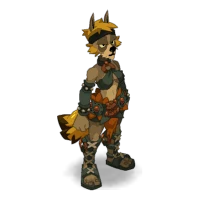
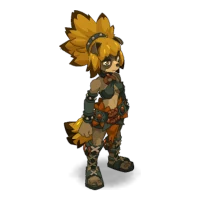
Ouginak : les 8 vraies têtes pour chaque sexe
Les têtes de l'Ouginak sont les apparences 3502 à 3509 (masculin) et 3510 à 3517 (féminin), vérifiées sur le serveur d'images d'Ankama et comparées au rendu officiel par défaut. L'ancienne liste était décalée de deux (d'où les têtes féminines chez l'homme et les têtes cassées chez la femme). Images locales régénérées, cache des images media-v7.

Claude-Session: https://claude.ai/code/session_01TgfgsFbfimzPE6UbE45j36

Changed region(s): [[0.27, 0.03, 0.69, 0.96]]

diff --git a/js/looks.js b/js/looks.js
@@ -1,7 +1,7 @@
 /* idlus — apparences des héros (3.1)
    Rendus officiels des apparences DOFUS (corps de classe, têtes, couleurs) + correspondances objet → apparence établies par idlus. */
 (function (root) {
-  const CLASS_LOOKS = {"feca":{"m":{"body":10,"heads":[2012,2013,2014,2015,2016,2017,2018,2019],"colors":[15047528,7814953,14185518,4809554,5319189]},"f":{"body":11,"heads":[2020,2021,2022,2023,2024,2025,2026,2027],"colors":[15047528,7814953,14185518,4809554,5319189]}},"osa":{"m":{"body":20,"heads":[2028,2029,2030,2031,2032,2033,2034,2035],"colors":[14325094,14732959,3572096,4800822,16755757]},"f":{"body":21,"heads":[2036,2037,2038,2039,2040,2041,2042,2043],"colors":[14325094,14732959,3572096,4800822,16755757]}},"enu":{"m":{"body":30,"heads":[2044,2045,2046,2047,2048,2049,2050,2051],"colors":[13732958,15851694,3093806,14325820,7814953]},"f":{"body":31,"heads":[2052,2053,2054,2055,2056,2057,2058,2059],"colors":[16297081,15588265,3159600,14517248,7814953]}},"sram":{"m":{"body":40,"heads":[2060,2061,2062,2063,2064,2065,2066,2067],"colors":[14206857,15392448,3435918,6177568,10715217]},"f":{"body":41,"heads":[2068,2069,2070,2071,2072,2073,2074,2075],"colors":[14325094,15392448,3435918,6177568,3435918]}},"xelor":{"m":{"body":50,"heads":[2076,2077,2078,2079,2080,2081,2082,2083],"colors":[8550749,15782577,1923718,6700064,15042816]},"f":{"body":51,"heads":[2084,2085,2086,2087,2088,2089,2090,2091],"colors":[8550749,14533780,1923718,6700064,15042816]}},"eca":{"m":{"body":60,"heads":[2092,2093,2094,2095,2096,2097,2098,2099],"colors":[14732959,15173176,15690532,5478807,7687730]},"f":{"body":61,"heads":[2100,2101,2102,2103,2104,2105,2106,2107],"colors":[14732959,15173176,15690532,5478807,7687730]}},"eni":{"m":{"body":70,"heads":[2108,2109,2110,2111,2112,2113,2114,2115],"colors":[14325094,7814953,13997612,4739655,6833937]},"f":{"body":71,"heads":[2116,2117,2118,2119,2120,2121,2122,2123],"colors":[15047528,14996664,14368563,14471352,9799968]}},"iop":{"m":{"body":80,"heads":[2124,2125,2126,2127,2128,2129,2130,2131],"colors":[15704172,15301153,14736065,12200764,484225]},"f":{"body":81,"heads":[2132,2133,2134,2135,2136,2137,2138,2139],"colors":[15047528,15301153,14736065,12200764,12200764]}},"cra":{"m":{"body":90,"heads":[2140,2141,2142,2143,2144,2145,2146,2147],"colors":[15047528,14383411,7696171,8675096,9392643]},"f":{"body":91,"heads":[2148,2149,2150,2151,2152,2153,2154,2155],"colors":[15047528,14383411,7696171,9392643,9392643]}},"sadi":{"m":{"body":100,"heads":[2156,2157,2158,2159,2160,2161,2162,2163],"colors":[9329441,7966996,15914657,7820329,15914657]},"f":{"body":101,"heads":[2164,2165,2166,2167,2168,2169,2170,2171],"colors":[12282670,7966996,14994072,10711608,15258276]}},"sacri":{"m":{"body":110,"heads":[2172,2173,2174,2175,2176,2177,2178,2179],"colors":[15047528,15896377,8287530,8727092,16422159]},"f":{"body":111,"heads":[2180,2181,2182,2183,2184,2185,2186,2187],"colors":[15047528,15896377,8287530,8727092,16422159]}},"panda":{"m":{"body":120,"heads":[2188,2189,2190,2191,2192,2193,2194,2195],"colors":[13418918,5329968,9904435,3423523,14533780]},"f":{"body":121,"heads":[2196,2197,2198,2199,2200,2201,2202,2203],"colors":[13418918,5329968,9904435,9904435,14533780]}},"roub":{"m":{"body":1405,"heads":[2204,2205,2206,2207,2208,2209,2210,2211],"colors":[15047528,1341042,3883833,15703040,7098924]},"f":{"body":1407,"heads":[2212,2213,2214,2215,2216,2217,2218,2219],"colors":[15047528,1341042,3883833,15703040,7098924]}},"zobal":{"m":{"body":1437,"heads":[2220,2221,2222,2223,2224,2225,2226,2227],"colors":[15572842,9836073,4863523,1855824,11839343]},"f":{"body":1438,"heads":[2228,2229,2230,2231,2232,2233,2234,2235],"colors":[15572842,9836073,4863523,1855824,11839343]}},"steam":{"m":{"body":1663,"heads":[2236,2237,2238,2239,2240,2241,2242,2243],"colors":[14785388,15060409,3882547,11430949,10984301]},"f":{"body":1664,"heads":[2244,2245,2246,2247,2248,2249,2250,2251],"colors":[14785388,15060409,3882547,11430949,10984301]}},"elio":{"m":{"body":3179,"heads":[3183,3184,3185,3186,3187,3188,3189,3190],"colors":[16112841,10072765,8211000,16765866,2388929]},"f":{"body":3180,"heads":[3199,3200,3201,3202,3203,3204,3205,3206],"colors":[16112841,10072765,8211000,16765866,2388929]}},"hupper":{"m":{"body":3285,"heads":[3289,3290,3291,3292,3293,3294,3295,3296],"colors":[16104582,16439198,2663850,15071441,16643820]},"f":{"body":3286,"heads":[3297,3298,3299,3300,3301,3302,3303,3304],"colors":[16104582,16439198,2663850,13426363,15987438]}},"ougi":{"m":{"body":3498,"heads":[3504,3506,3507,3508,3511],"colors":[9795658,9989653,8077087,4081977,12868619]},"f":{"body":3499,"heads":[3526,3527],"colors":[9598537,13012508,8077087,4081977,9717256]}},"forge":{"m":{"body":3221,"heads":[4364,4365,4366,4367,4368,4369,4370,4371],"colors":[15047528,7814953,4276545,15325098,8885653]},"f":{"body":3633,"heads":[4363,4374,4375,4376,4377,4378,4379,4372],"colors":[15047528,7814953,4276545,15325098,8885653]}}};
+  const CLASS_LOOKS = {"feca":{"m":{"body":10,"heads":[2012,2013,2014,2015,2016,2017,2018,2019],"colors":[15047528,7814953,14185518,4809554,5319189]},"f":{"body":11,"heads":[2020,2021,2022,2023,2024,2025,2026,2027],"colors":[15047528,7814953,14185518,4809554,5319189]}},"osa":{"m":{"body":20,"heads":[2028,2029,2030,2031,2032,2033,2034,2035],"colors":[14325094,14732959,3572096,4800822,16755757]},"f":{"body":21,"heads":[2036,2037,2038,2039,2040,2041,2042,2043],"colors":[14325094,14732959,3572096,4800822,16755757]}},"enu":{"m":{"body":30,"heads":[2044,2045,2046,2047,2048,2049,2050,2051],"colors":[13732958,15851694,3093806,14325820,7814953]},"f":{"body":31,"heads":[2052,2053,2054,2055,2056,2057,2058,2059],"colors":[16297081,15588265,3159600,14517248,7814953]}},"sram":{"m":{"body":40,"heads":[2060,2061,2062,2063,2064,2065,2066,2067],"colors":[14206857,15392448,3435918,6177568,10715217]},"f":{"body":41,"heads":[2068,2069,2070,2071,2072,2073,2074,2075],"colors":[14325094,15392448,3435918,6177568,3435918]}},"xelor":{"m":{"body":50,"heads":[2076,2077,2078,2079,2080,2081,2082,2083],"colors":[8550749,15782577,1923718,6700064,15042816]},"f":{"body":51,"heads":[2084,2085,2086,2087,2088,2089,2090,2091],"colors":[8550749,14533780,1923718,6700064,15042816]}},"eca":{"m":{"body":60,"heads":[2092,2093,2094,2095,2096,2097,2098,2099],"colors":[14732959,15173176,15690532,5478807,7687730]},"f":{"body":61,"heads":[2100,2101,2102,2103,2104,2105,2106,2107],"colors":[14732959,15173176,15690532,5478807,7687730]}},"eni":{"m":{"body":70,"heads":[2108,2109,2110,2111,2112,2113,2114,2115],"colors":[14325094,7814953,13997612,4739655,6833937]},"f":{"body":71,"heads":[2116,2117,2118,2119,2120,2121,2122,2123],"colors":[15047528,14996664,14368563,14471352,9799968]}},"iop":{"m":{"body":80,"heads":[2124,2125,2126,2127,2128,2129,2130,2131],"colors":[15704172,15301153,14736065,12200764,484225]},"f":{"body":81,"heads":[2132,2133,2134,2135,2136,2137,2138,2139],"colors":[15047528,15301153,14736065,12200764,12200764]}},"cra":{"m":{"body":90,"heads":[2140,2141,2142,2143,2144,2145,2146,2147],"colors":[15047528,14383411,7696171,8675096,9392643]},"f":{"body":91,"heads":[2148,2149,2150,2151,2152,2153,2154,2155],"colors":[15047528,14383411,7696171,9392643,9392643]}},"sadi":{"m":{"body":100,"heads":[2156,2157,2158,2159,2160,2161,2162,2163],"colors":[9329441,7966996,15914657,7820329,15914657]},"f":{"body":101,"heads":[2164,2165,2166,2167,2168,2169,2170,2171],"colors":[12282670,7966996,14994072,10711608,15258276]}},"sacri":{"m":{"body":110,"heads":[2172,2173,2174,2175,2176,2177,2178,2179],"colors":[15047528,15896377,8287530,8727092,16422159]},"f":{"body":111,"heads":[2180,2181,2182,2183,2184,2185,2186,2187],"colors":[15047528,15896377,8287530,8727092,16422159]}},"panda":{"m":{"body":120,"heads":[2188,2189,2190,2191,2192,2193,2194,2195],"colors":[13418918,5329968,9904435,3423523,14533780]},"f":{"body":121,"heads":[2196,2197,2198,2199,2200,2201,2202,2203],"colors":[13418918,5329968,9904435,9904435,14533780]}},"roub":{"m":{"body":1405,"heads":[2204,2205,2206,2207,2208,2209,2210,2211],"colors":[15047528,1341042,3883833,15703040,7098924]},"f":{"body":1407,"heads":[2212,2213,2214,2215,2216,2217,2218,2219],"colors":[15047528,1341042,3883833,15703040,7098924]}},"zobal":{"m":{"body":1437,"heads":[2220,2221,2222,2223,2224,2225,2226,2227],"colors":[15572842,9836073,4863523,1855824,11839343]},"f":{"body":1438,"heads":[2228,2229,2230,2231,2232,2233,2234,2235],"colors":[15572842,9836073,4863523,1855824,11839343]}},"steam":{"m":{"body":1663,"heads":[2236,2237,2238,2239,2240,2241,2242,2243],"colors":[14785388,15060409,3882547,11430949,10984301]},"f":{"body":1664,"heads":[2244,2245,2246,2247,2248,2249,2250,2251],"colors":[14785388,15060409,3882547,11430949,10984301]}},"elio":{"m":{"body":3179,"heads":[3183,3184,3185,3186,3187,3188,3189,3190],"colors":[16112841,10072765,8211000,16765866,2388929]},"f":{"body":3180,"heads":[3199,3200,3201,3202,3203,3204,3205,3206],"colors":[16112841,10072765,8211000,16765866,2388929]}},"hupper":{"m":{"body":3285,"heads":[3289,3290,3291,3292,3293,3294,3295,3296],"colors":[16104582,16439198,2663850,15071441,16643820]},"f":{"body":3286,"heads":[3297,3298,3299,3300,3301,3302,3303,3304],"colors":[16104582,16439198,2663850,13426363,15987438]}},"ougi":{"m":{"body":3498,"heads":[3502,3503,3504,3505,3506,3507,3508,3509],"colors":[9795658,9989653,8077087,4081977,12868619]},"f":{"body":3499,"heads":[3510,3511,3512,3513,3514,3515,3516,3517],"colors":[9598537,13012508,8077087,4081977,9717256]}},"forge":{"m":{"body":3221,"heads":[4364,4365,4366,4367,4368,4369,4370,4371],"colors":[15047528,7814953,4276545,15325098,8885653]},"f":{"body":3633,"heads":[4363,4374,4375,4376,4377,4378,4379,4372],"colors":[15047528,7814953,4276545,15325098,8885653]}}};
   /* coiffes et capes dont l'apparence est connue (les autres n'apparaissent pas encore sur le héros) */
   const ITEM_SKINS = {"i8534":191,"i937":212,"i8232":167,"i2473":124,"i8231":166,"i8236":168,"i8233":170,"i8235":169,"i8234":171,"i773":88,"i776":92,"i6916":319,"i947":217,"i744":84,"i1021":1171,"i2414":119,"i6720":131,"i8258":172,"i957":208,"i8112":161,"i7108":320,"i2445":122,"i2382":112,"i2412":117,"i2534":128,"i2489":125,"i1695":93,"i8247":283,"i8246":284,"i2474":242,"i8248":285,"i6917":262,"i8125":276,"i2411":239,"i6719":251,"i8259":286,"i701":226,"i10828":265,"i702":227,"i708":433,"i2641":247,"i2438":240,"i2070":249,"i7109":269,"i2095":234,"i2409":237,"i2535":245,"i6760":257,"i6991":1094,"i1908":1066,"i8304":295,"i7887":1100,"i8285":293,"i6764":428,"i8163":450,"i8845":309,"i2546":246,"i8330":416,"i8463":302,"i7151":440,"i6481":250,"i8243":280,"i8244":281,"i8245":282};
   /* palettes : la couleur 1 (peau) est conservée, les autres sont remplacées */

diff --git a/sw.js b/sw.js
@@ -4,7 +4,7 @@
 const VERSION = "0.1.1";
 /* La version de test (/beta/) a ses propres caches : chaque service worker ne nettoie que les siens. */
 const P = /\/beta\/$/.test(self.registration.scope) ? "idlus-beta-" : "idlus-";
-const CORE = P + "core-" + VERSION, MEDIA = P + "media-v6";
+const CORE = P + "core-" + VERSION, MEDIA = P + "media-v7";
 const PRECACHE = ["./", "index.html", "css/style.css", "js/gamedata.js", "js/looks.js", "js/data.js", "js/engine.js", "js/systems.js", "js/ui.js", "js/admin.js", "manifest.webmanifest", "icons/icon-192.png", "icons/icon-512.png"];
 self.addEventListener("install", (e) => { e.waitUntil(caches.open(CORE).then((c) => c.addAll(PRECACHE)).then(() => self.skipWaiting())); });
 self.addEventListener("activate", (e) => {
